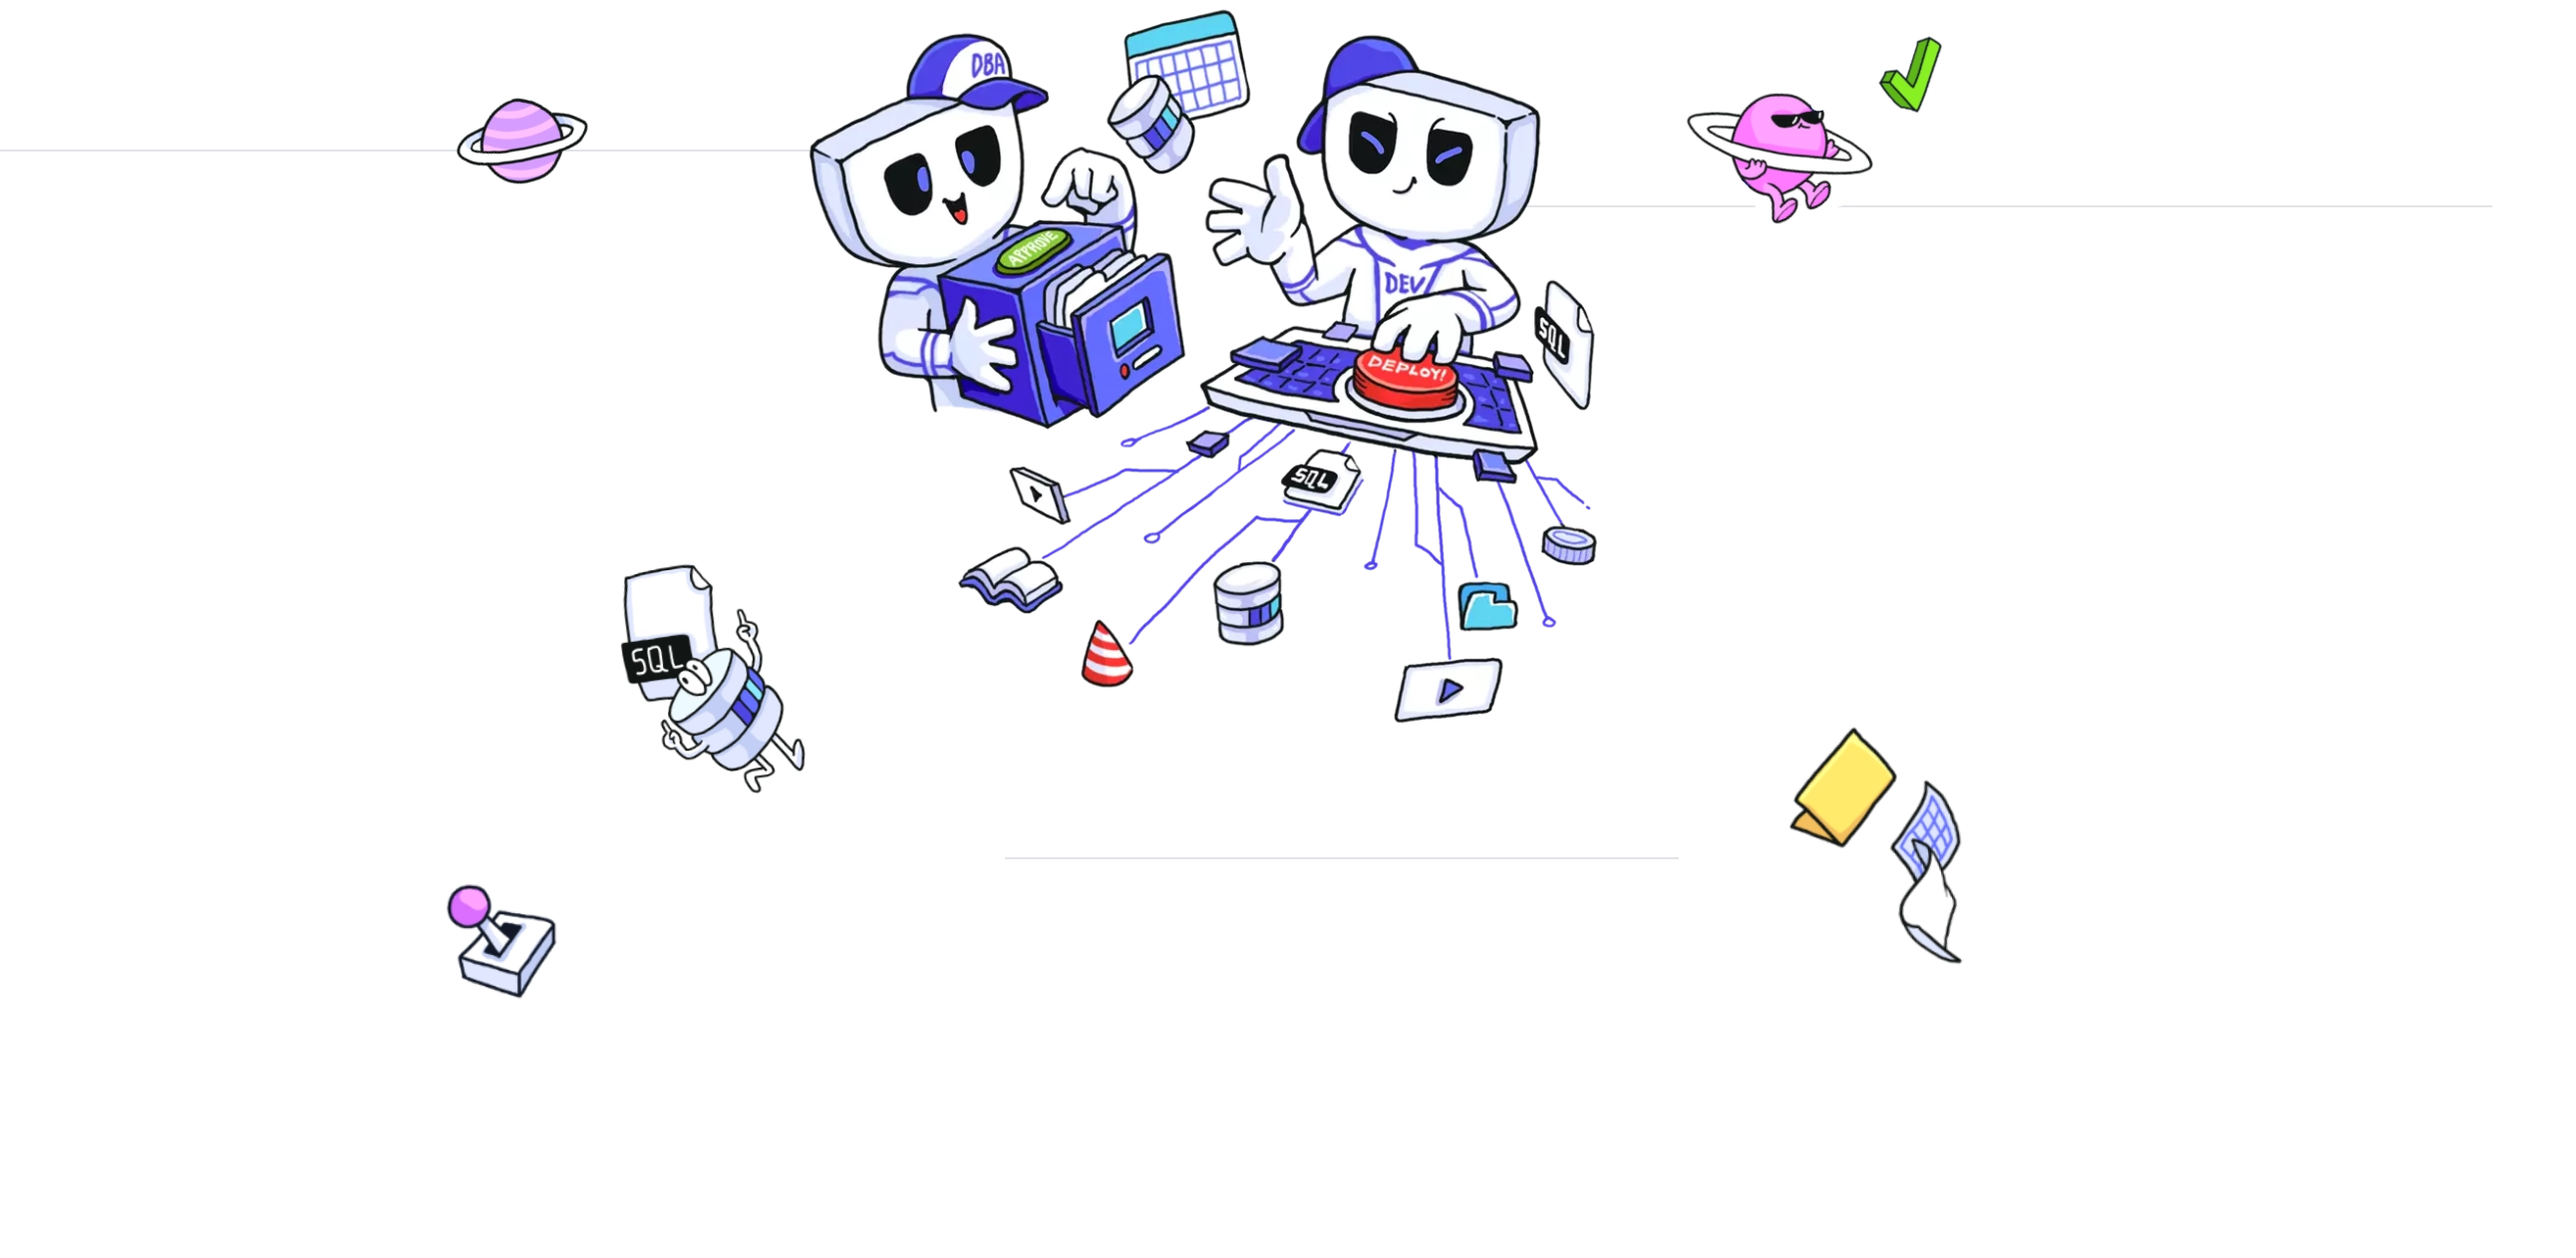
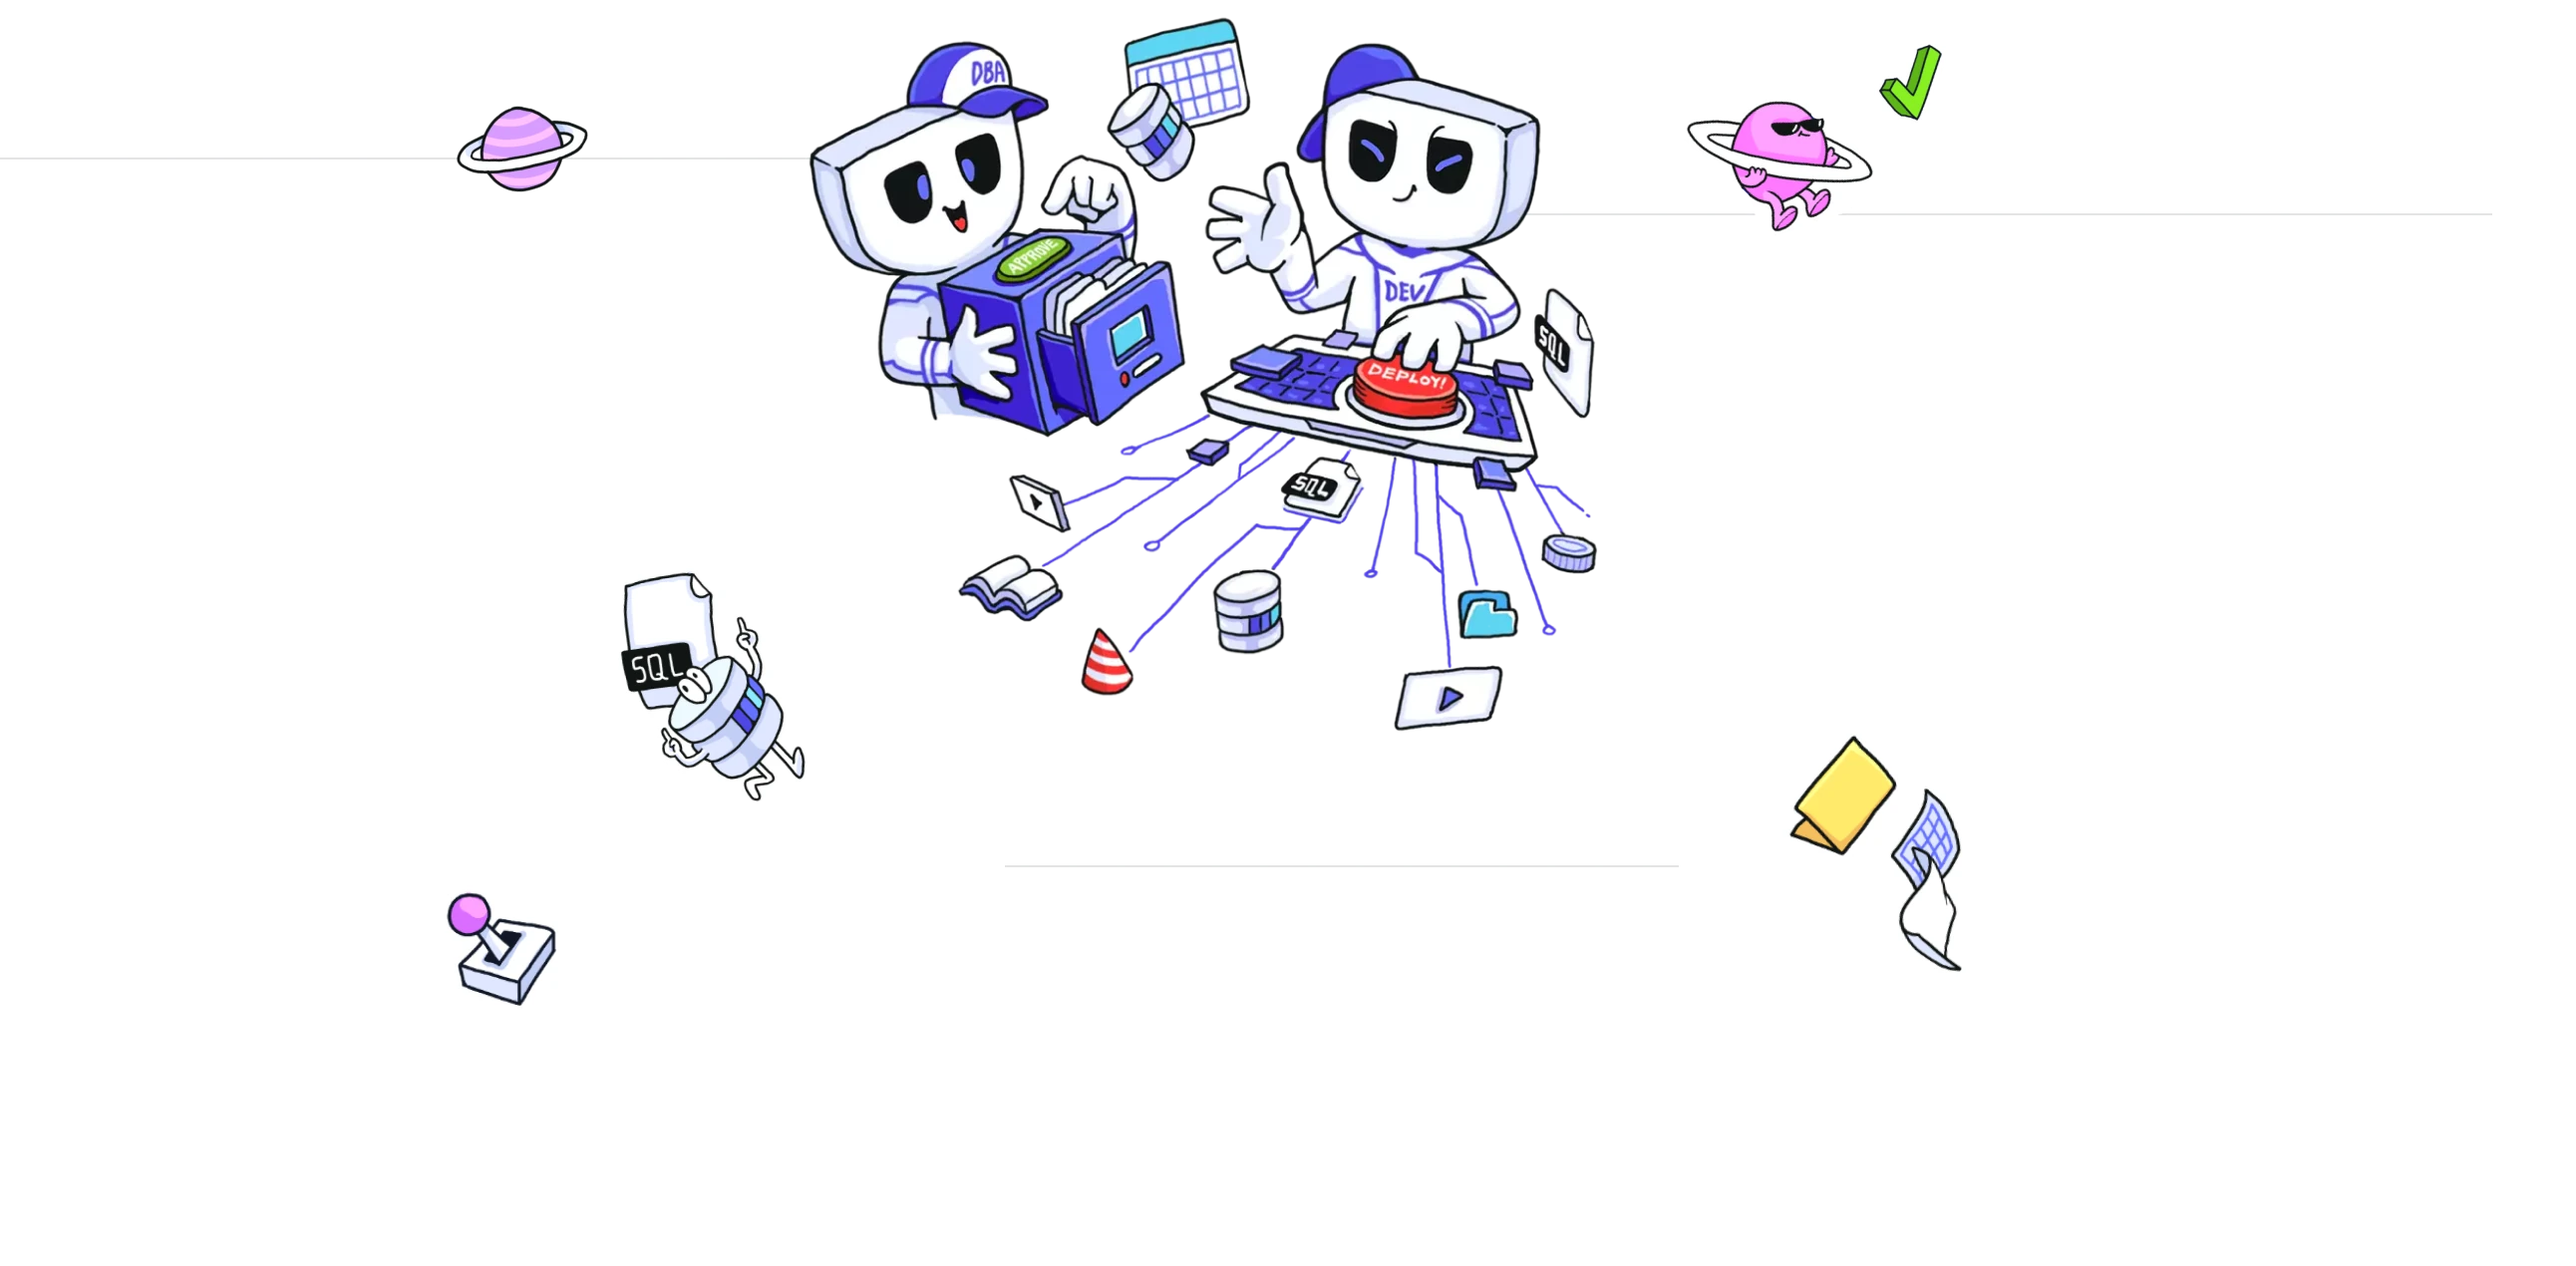
fix: decrease hero images size

diff --git a/src/components/pages/about/hero/hero.tsx b/src/components/pages/about/hero/hero.tsx
@@ -22,7 +22,7 @@ const Hero = () => {
           priority
         />
         <Image
-          src="/images/page/about/why-we-build-2xl.webp"
+          src="/images/page/about/why-we-build-3xl.webp"
           alt=""
           width={1229}
           height={631}
@@ -30,7 +30,7 @@ const Hero = () => {
           priority
         />
         <Image
-          src="/images/page/about/why-we-build-lg.webp"
+          src="/images/page/about/why-we-build-xl.webp"
           alt=""
           width={936}
           height={528}
